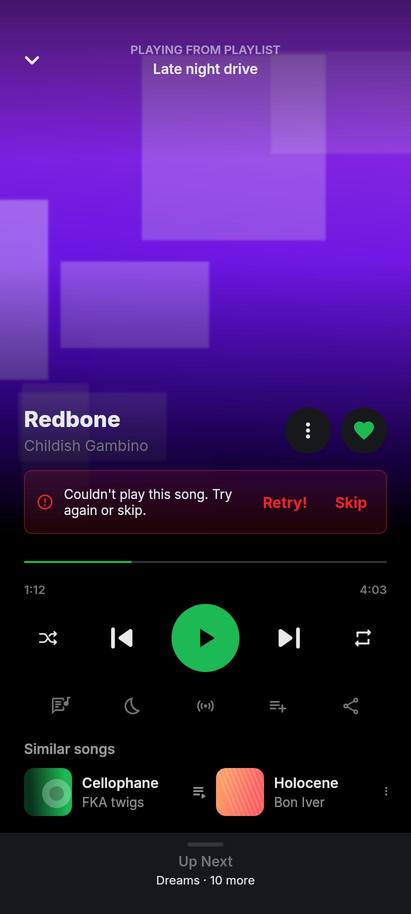
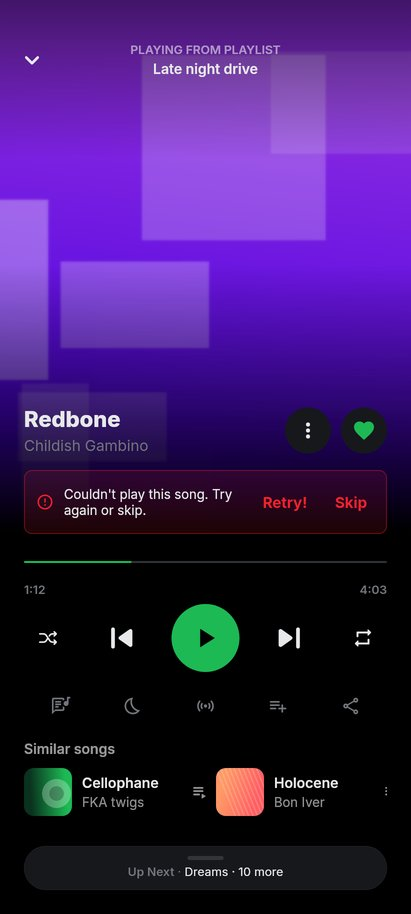
1.7.145: changelog, version, player screenshots, SKIPPED entry
Claude-Session: https://claude.ai/code/session_01QqANA2KoyktcKRw8NbVQ7X

Changed region(s): [[0.0, 0.8884, 1.0, 1.0]]

diff --git a/lib/utils/app_version.dart b/lib/utils/app_version.dart
@@ -5,7 +5,7 @@ import 'package:package_info_plus/package_info_plus.dart';
 ///
 /// MUST stay in sync with `version:` in pubspec.yaml — `test/app_version_test.dart`
 /// asserts this, so a bumped pubspec with a stale constant fails the suite.
-const String kPubspecAppVersion = '1.7.144';
+const String kPubspecAppVersion = '1.7.145';
 
 /// Splits any version-ish string into exactly three numeric parts.
 ///

diff --git a/docs/redesign/SKIPPED.md b/docs/redesign/SKIPPED.md
@@ -44,6 +44,7 @@ elements (or can't be done on this SDK), and what was done instead.
 | 8 | Page transition 250 ms (§4.7) | See Phase 1 row: route builders fix their own durations | unchanged |
 | 8 | Sleep-timer countdown tabular figures | A non-colour `copyWith` (fontFeatures) kept so the digits don't jitter | kept |
 | 3 (revised after 1.7.142) | Rail: no indicator, outline/filled glyphs 24, 11/600 labels, right hairline | The owner preferred the pre-restyle rail | pre-restyle rail look restored: accent box (16% fill, 28% outline) behind the active glyph, muted inactive items, titleMedium/bodyLarge labels, no right hairline; width 47, items, order and the selection haptic unchanged |
+| 6 (revised after 1.7.144) | Full-width 65 dp queue strip (handle, "Up Next" and the next song on two lines, hairline top) | The owner asked for it smaller and rounded | a 44 dp floating card in the mini player's style (surface1, hairline edge, radius 24), 24 dp side margins in line with the player content and clear of the system inset; handle kept, "Up Next" and the next song on one line; the queue fades in as it opens; tap and drag unchanged |
 
 ## Known side effects of Phase 1 (to settle in later phases)
 

diff --git a/CHANGELOG.md b/CHANGELOG.md
@@ -1,3 +1,12 @@
+# 1.7.145
+
+**A smaller, rounded Up Next**
+* At the bottom of the player, Up Next is now a slim rounded card floating
+  above the gesture bar instead of a full-width block, lined up with the
+  controls above it
+* "Up Next" and the next song share one line; tap or swipe it up to open
+  the queue, same as before
+
 # 1.7.144
 
 **What's playing? Name the song around you**
